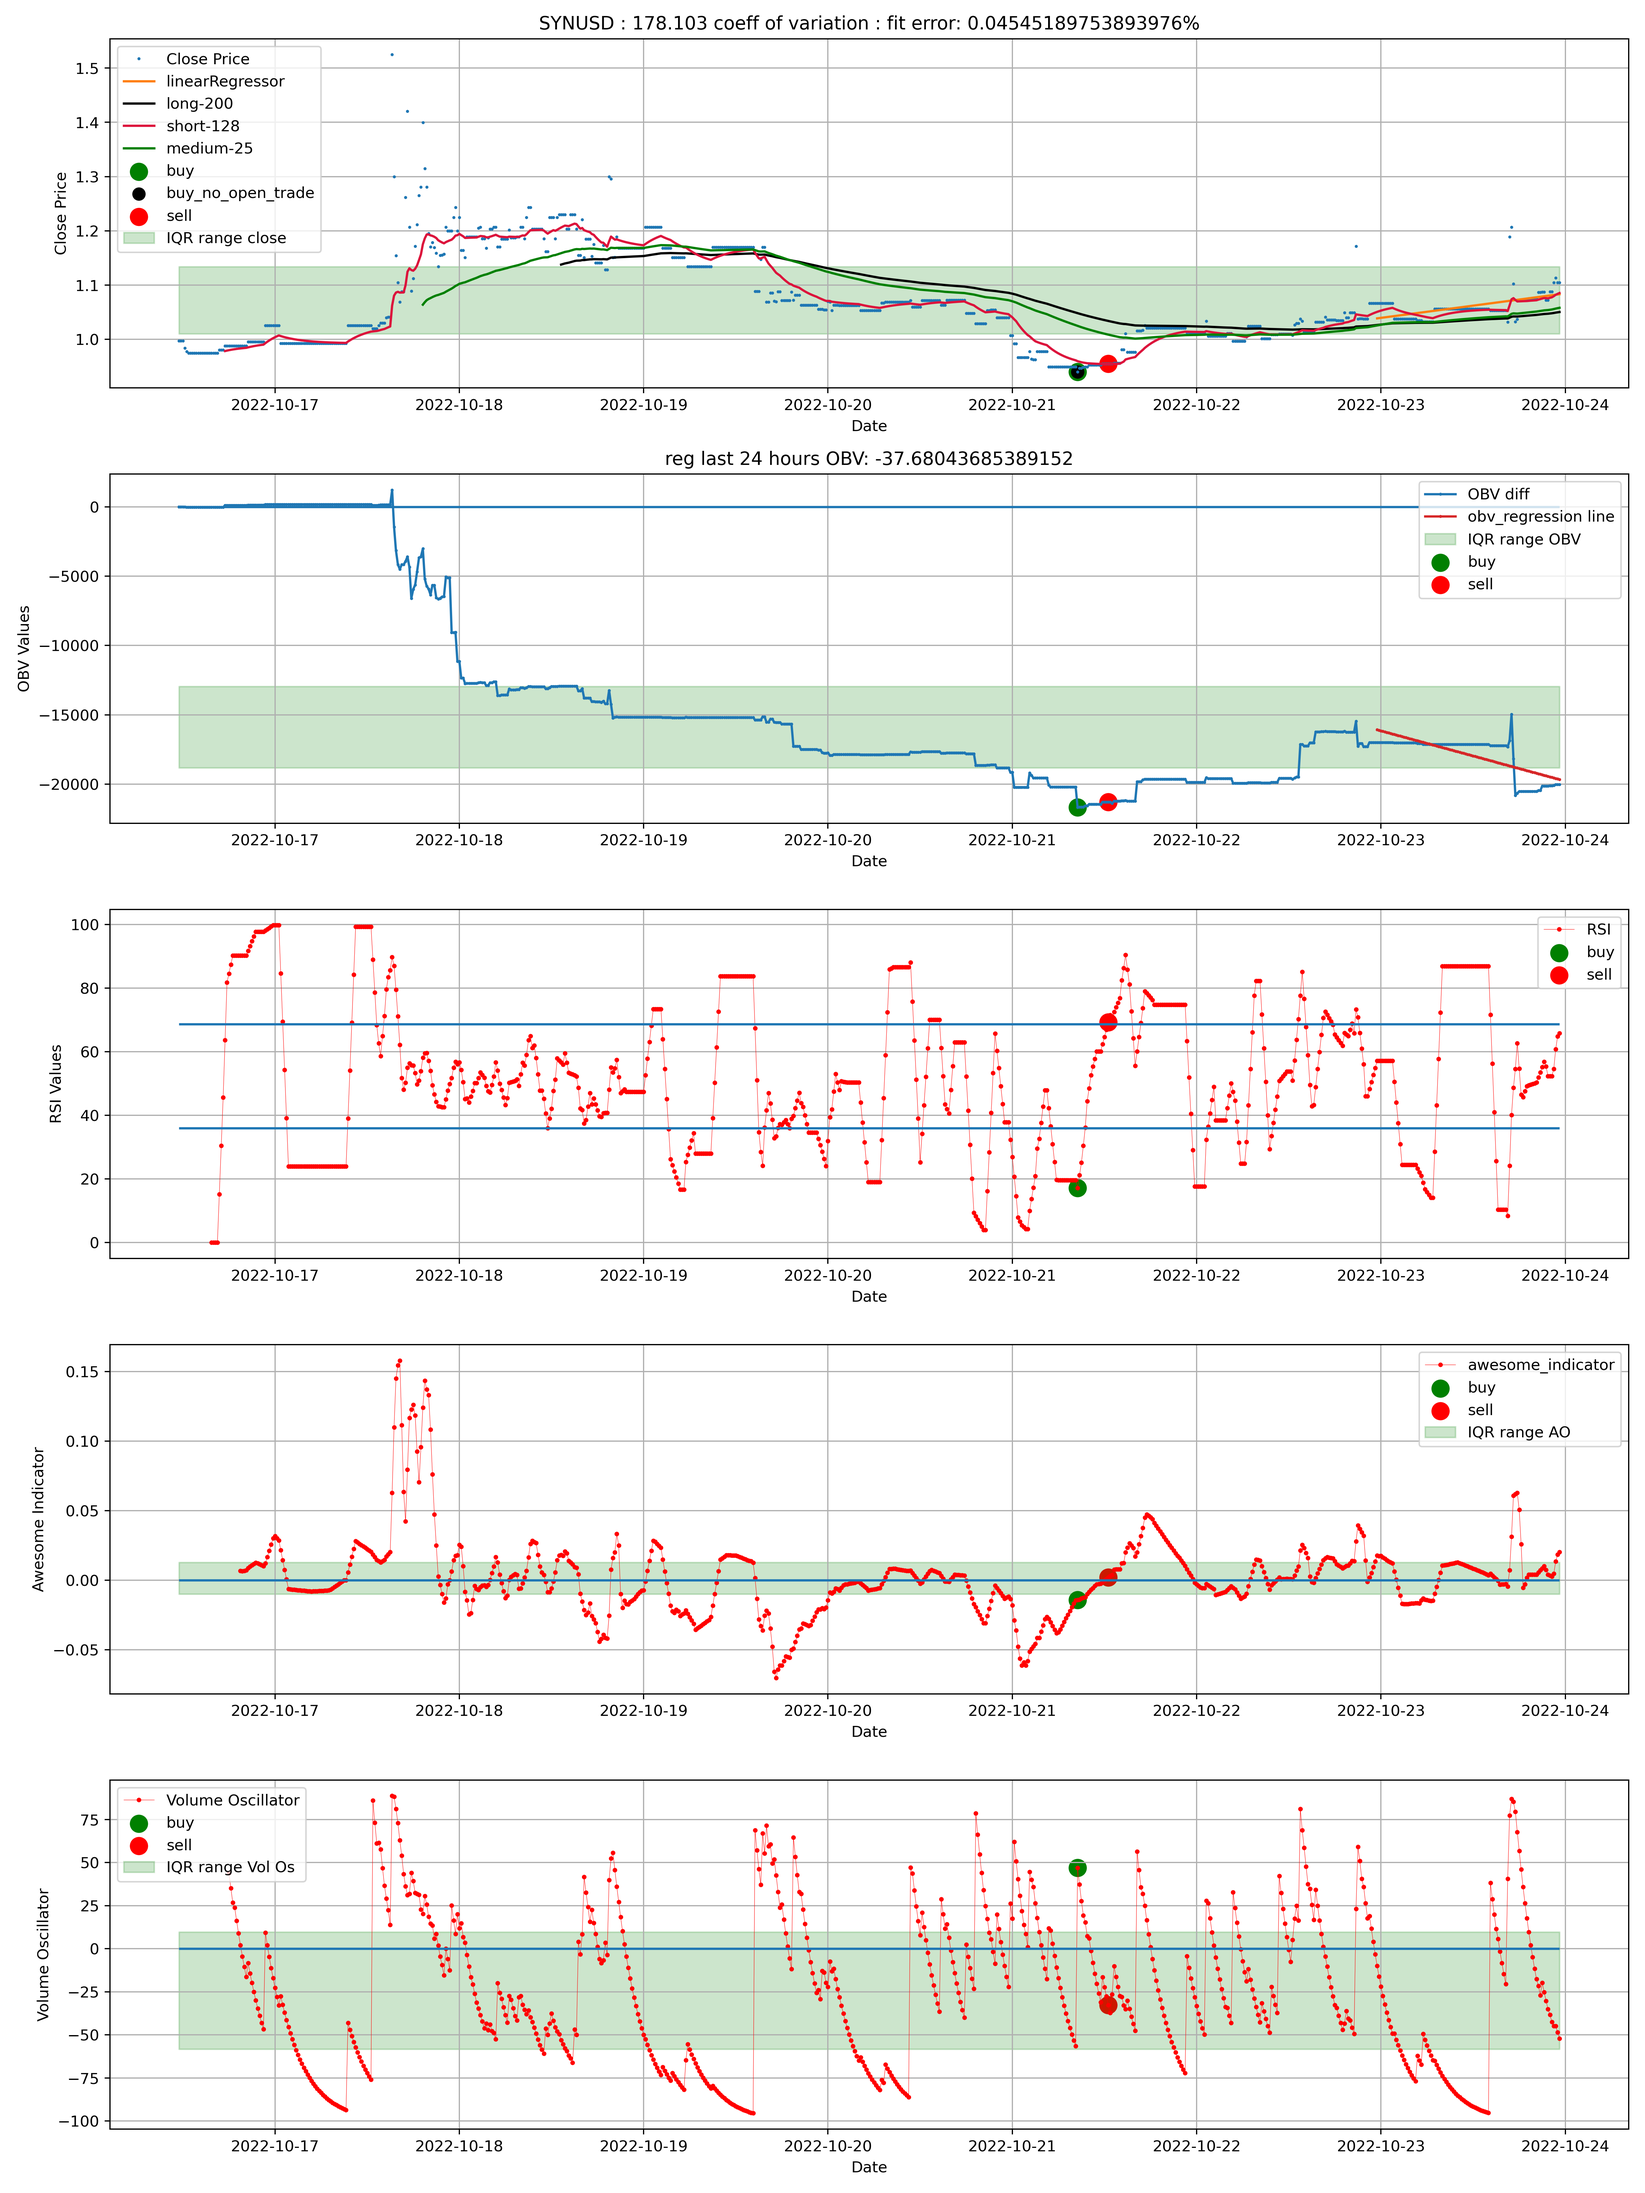
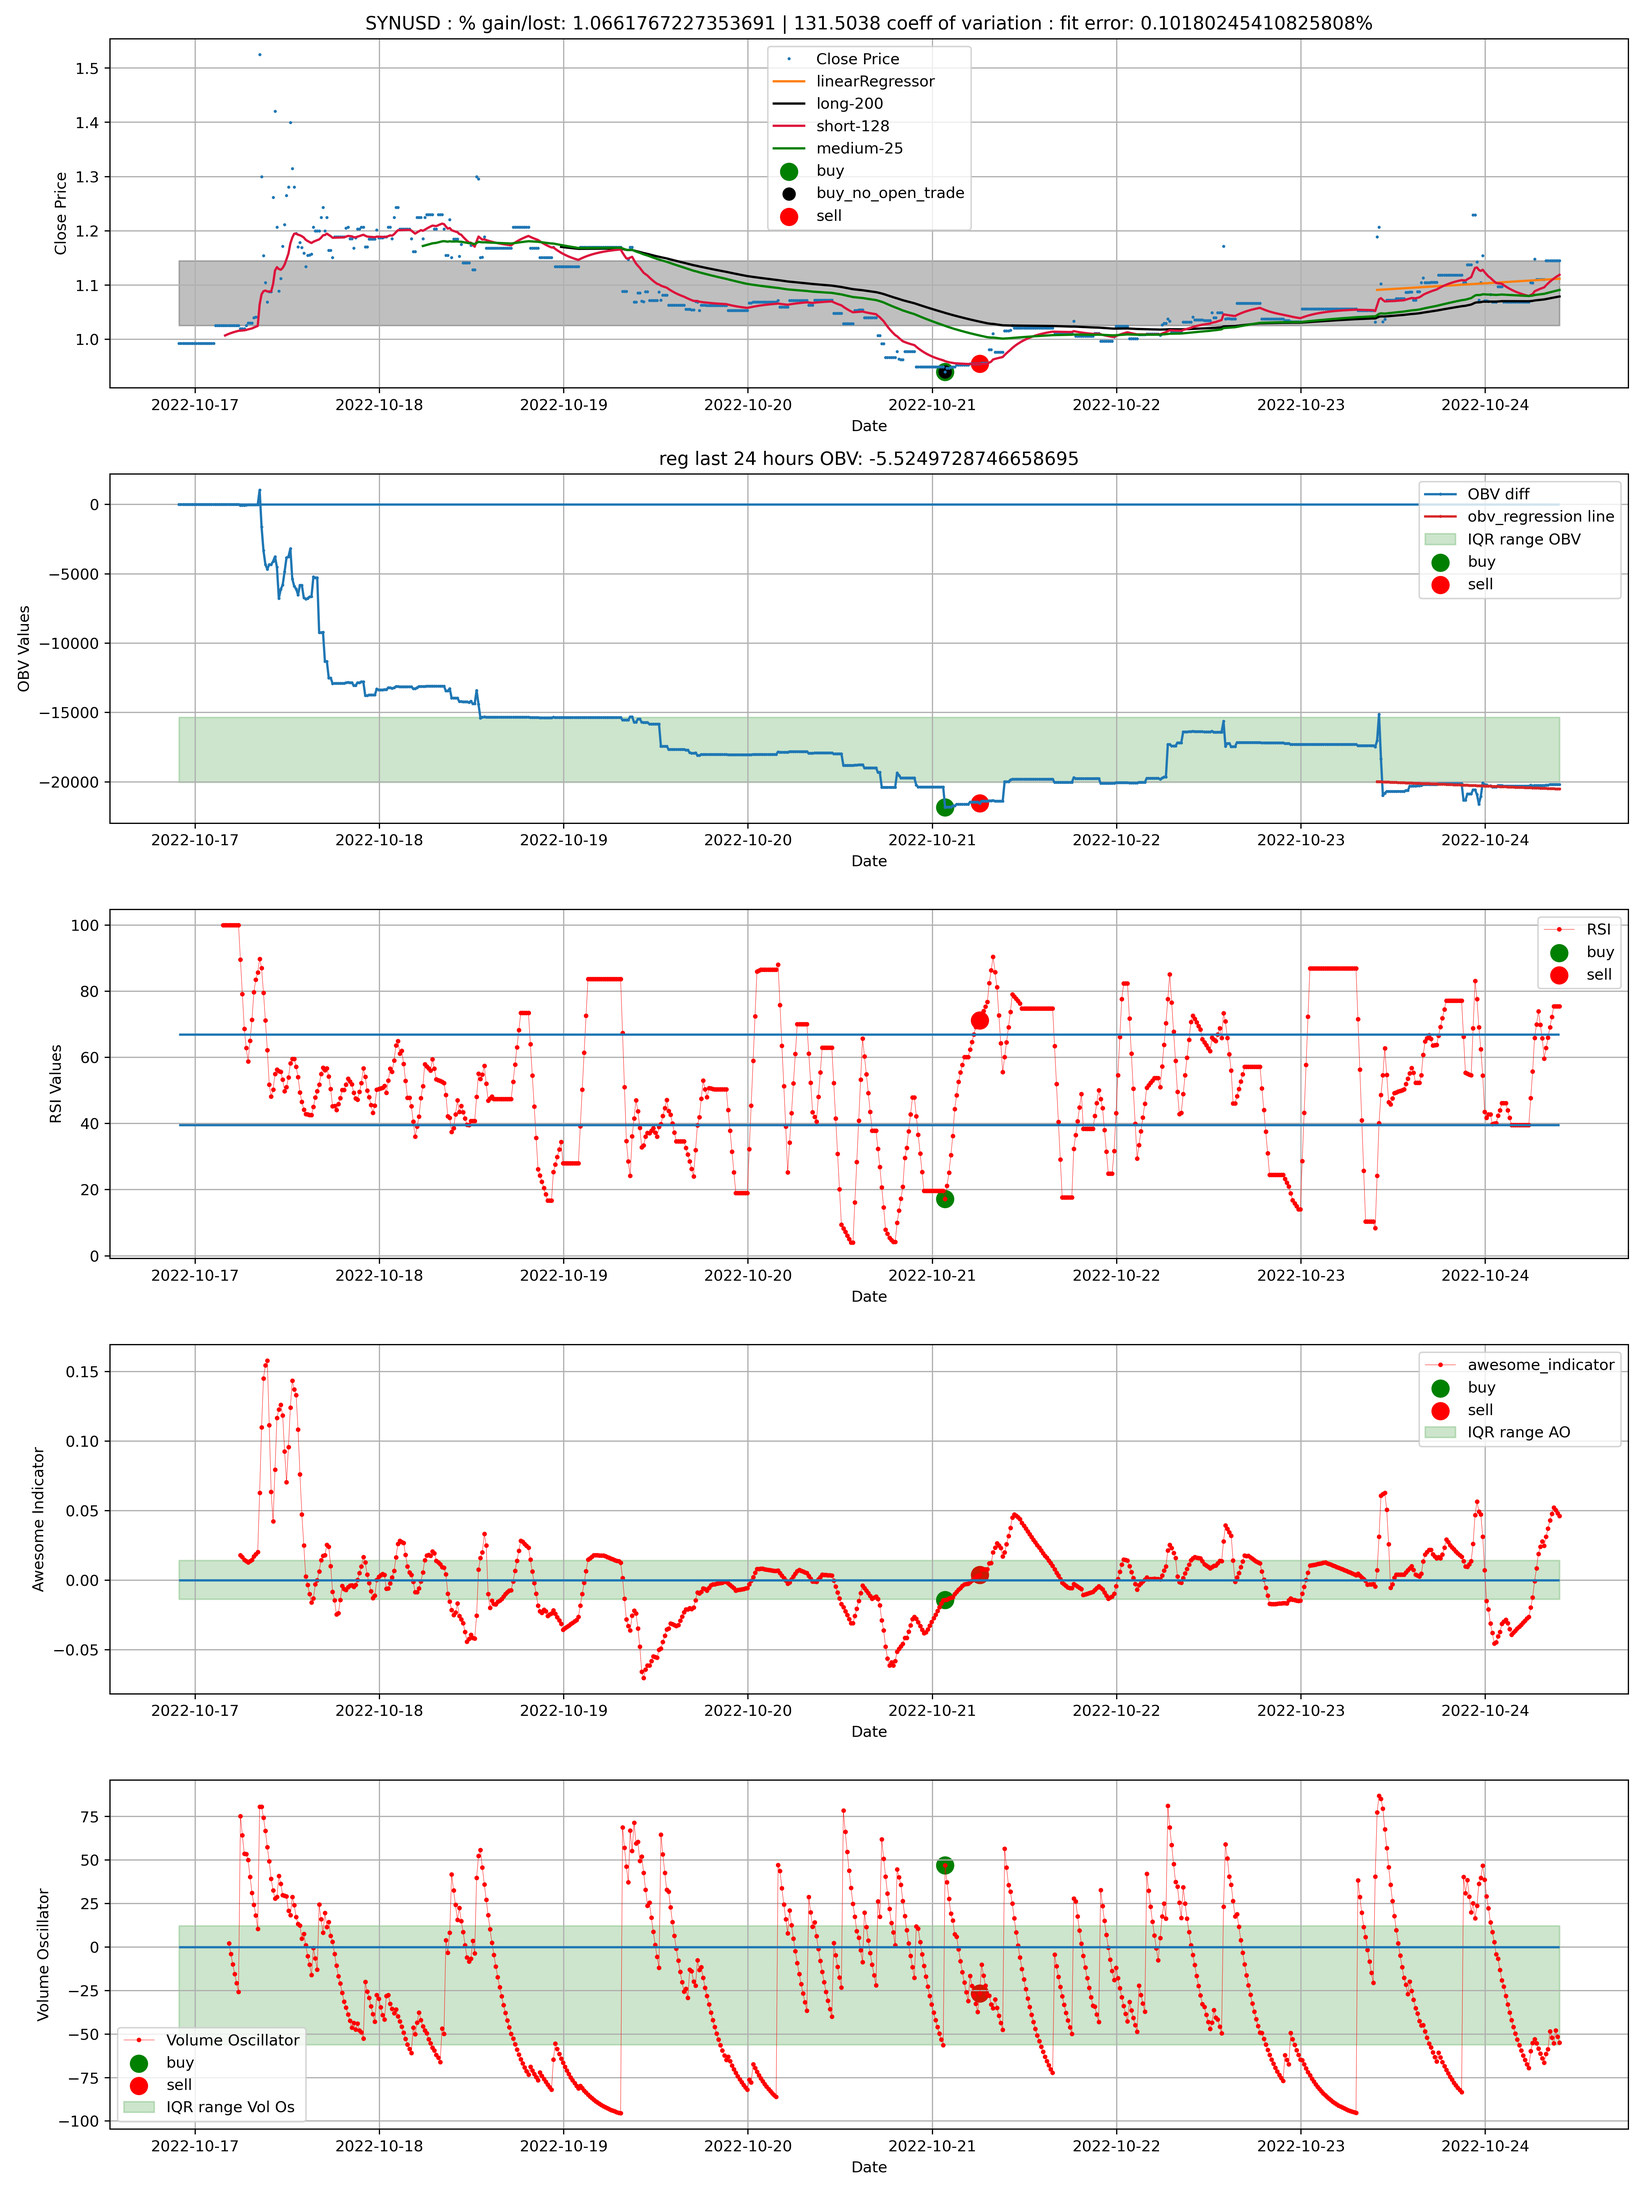
FIX: trying iterations of different combinations of technicals

diff --git a/technical_analysis.py b/technical_analysis.py
@@ -14,13 +14,14 @@ from numpy import array, zeros, nan, arange, percentile, empty, log, mean, isnan
 from time import sleep
 # import argparse
 from os import getcwd, remove
-from pandas import DataFrame, read_csv
+from pandas import DataFrame, read_csv, date_range
 # from scipy.stats import pearsonr
 import matplotlib.pyplot as plt
 from os.path import join
 import warnings
 from buy_sell_signals import buy_signal_hft,basic_sell
 # from datetime import datetime, timedelta
+from datetime import datetime
 # from scipy.signal import savgol_filter
 from tqdm import tqdm
 from glob import glob
@@ -114,6 +115,15 @@ class technical():
         temp_arr = [x for x in self.reg_arr_half if ~isnan(x)]
         APE = (self.data['close'].iloc[-data_len-1:-1].values - temp_arr) / self.data['close'].iloc[-data_len-1:-1].values
         self.MAPE = abs(mean(APE))*100
+    def bollinger_band(self):
+        self.data['typical_price'] = (self.data['close'] + self.data['high'] + self.data['low']) / 3
+        self.data['TP_ewm'] = self.data['typical_price'].ewm(span=20,
+                          min_periods=19).mean()
+        self.data['std'] = self.data['TP_ewm'].ewm(span=20,
+                          min_periods=19).std()
+        self.data['upper_bound'] = self.data['TP_ewm']  + (2 * self.data['std'])
+        self.data['lower_bound'] = self.data['TP_ewm']  - (2 * self.data['std'])
+        
     def OBV(self,name='None'):
         """
         If the closing price of the asset is higher than the previous day?s closing price: 
@@ -251,13 +261,15 @@ class technical():
     #     self.corr_RSI_MACD = pearsonr(self.data['RSI'].dropna().iloc[0:len_values].values,self.data['macd_diff'].dropna().iloc[0:len_values].values)
     #     self.corr_ao_MACD = pearsonr(self.data['ao'].dropna().iloc[0:len_values].values,self.data['macd_diff'].dropna().iloc[0:len_values].values)
     def plot(self,name):
+        #create new date time
+        self.data.index = date_range(end=datetime.now(),periods=len(self.data.index),freq="15min")
         # xlim_val = [self.data.index[int((24*60)/SAMPLE_RATE)],self.data.index[-1]]
         x_low_lim = self.data.index[-int((24*60)/SAMPLE_RATE)]
         fig, ax = plt.subplots(5,1,figsize=(15, 20)) 
         buy_df = self.data[~self.data['buy'].isnull()]
         sell_df = self.data[~self.data['sell'].isnull()]
         #plot close price
-        str_name = f'{name} : {round(self.coef_variation,4)} coeff of variation : fit error: {self.MAPE}%'
+        str_name = f'{name} : % gain/lost: {self.gain_lost} | {round(self.coef_variation,4)} coeff of variation : fit error: {self.MAPE}%'
         ax[0].set_title(str_name)
         ax[0].plot(self.data.index,self.data['close'],'tab:blue', marker="o",
                markersize=1, linestyle='', label = 'Close Price')
@@ -268,8 +280,8 @@ class technical():
         ax[0].scatter(self.data.index, self.data['buy'], marker='o', s=120, color = 'g', label = 'buy')
         ax[0].scatter(self.data.index, self.data['buy_no_condition'], marker='o', s=60, color = 'black', label = 'buy_no_open_trade')
         ax[0].scatter(self.data.index, self.data['sell'], marker='o', s=120, color = 'r', label = 'sell')
-        ax[0].fill_between(self.data.index, self.q75_close, self.q25_close, color='green',
-                          alpha=0.2,label='IQR range close')
+        ax[0].fill_between(self.data.index, self.q25_close, self.q75_close, color='black',
+                      alpha=0.25)
         ax[0].legend()
         ax[0].grid(True)
         # ax[0].set_xlim(left=x_low_lim)
@@ -355,6 +367,7 @@ class technical():
         thresh_sell = 0
         count_hold_iter = 0
         self.save_time_hold = []
+        self.gain_lost = 0
         for o in range(len(self.data)): 
             if (
                 #This works but at 60%
@@ -370,8 +383,8 @@ class technical():
                 # (self.obv_reg.coef_[0] > 0) and
                 (self.data['OBV'].iloc[o] < self.q25_OBV) and
                 (self.data['volume_os'].iloc[o-1] <= 0) and
-                (self.data['volume_os'].iloc[o] > self.q75_vol_os) and
-                (self.data['volume_os'].iloc[o-1] < self.data['volume_os'].iloc[o]) and
+                (self.data['volume_os'].iloc[o] >= self.q75_vol_os) and
+                (self.data['volume_os'].iloc[o-1] <= self.q25_vol_os) and
                 (self.data['RSI'].iloc[o] < self.q25) and
                 (self.data['ao'].iloc[o-1] < self.data['ao'].iloc[o]) and
                 (self.data['ao'].iloc[o] < self.q25_ao) and 
@@ -391,17 +404,18 @@ class technical():
             #TODO change the sell condition to zero crossing of the Awe ind
             if (
                 (open_trade == False) and
-                self.data['RSI'].iloc[o] > self.q75
+                (self.data['RSI'].iloc[o] > self.q75)
                 ):
-                self.data['sell'].iloc[o] = self.data['close'].iloc[o]
-                simulate_fees_buy = buy_price * 0.0026
-                simulate_fees_sell = self.data['close'].iloc[o] * 0.0026
-                buy_plus_fees = buy_price + simulate_fees_buy +  simulate_fees_sell
-                gain_lost = ((self.data['close'].iloc[o] - buy_plus_fees) / buy_plus_fees)*100
-                print(f'percent gained or lost at sell: {gain_lost}')
-                self.cumlative_gained += gain_lost
-                self.save_time_hold.append(count_hold_iter)
-                open_trade = True
+                if ((self.data['RSI'].iloc[o-1] > self.data['RSI'].iloc[o]) or 
+                (self.data['RSI'].iloc[o-1] ==  self.data['RSI'].iloc[o])):
+                    self.data['sell'].iloc[o] = self.data['close'].iloc[o]
+                    simulate_fees_buy = buy_price * 0.0026
+                    simulate_fees_sell = self.data['close'].iloc[o] * 0.0026
+                    buy_plus_fees = buy_price + simulate_fees_buy +  simulate_fees_sell
+                    self.gain_lost += ((self.data['close'].iloc[o] - buy_plus_fees) / buy_plus_fees)*100
+                    self.cumlative_gained += self.gain_lost
+                    self.save_time_hold.append(count_hold_iter)
+                    open_trade = True
             # if (self.data['ao'].iloc[o] > 0):
             # if ((open_trade == False) and (thresh_buy < self.data['close'].iloc[o])):         
             # if ((open_trade == False) and (thresh_sell > self.data['close'].iloc[o])):
@@ -434,6 +448,7 @@ class technical():
                         self.OBV()
                         self.volume_osc()
                         # self.stoch_RSI()
+                        # self.bollinger_band()
                         self.aroon_ind()
                         self.moving_averages()
                         self.awesome_indicator()
@@ -480,6 +495,7 @@ class technical():
                 self.RSI()
                 self.OBV()
                 self.volume_osc()
+                # self.bollinger_band()
                 # self.stoch_RSI()
                 self.aroon_ind()
                 self.moving_averages()
